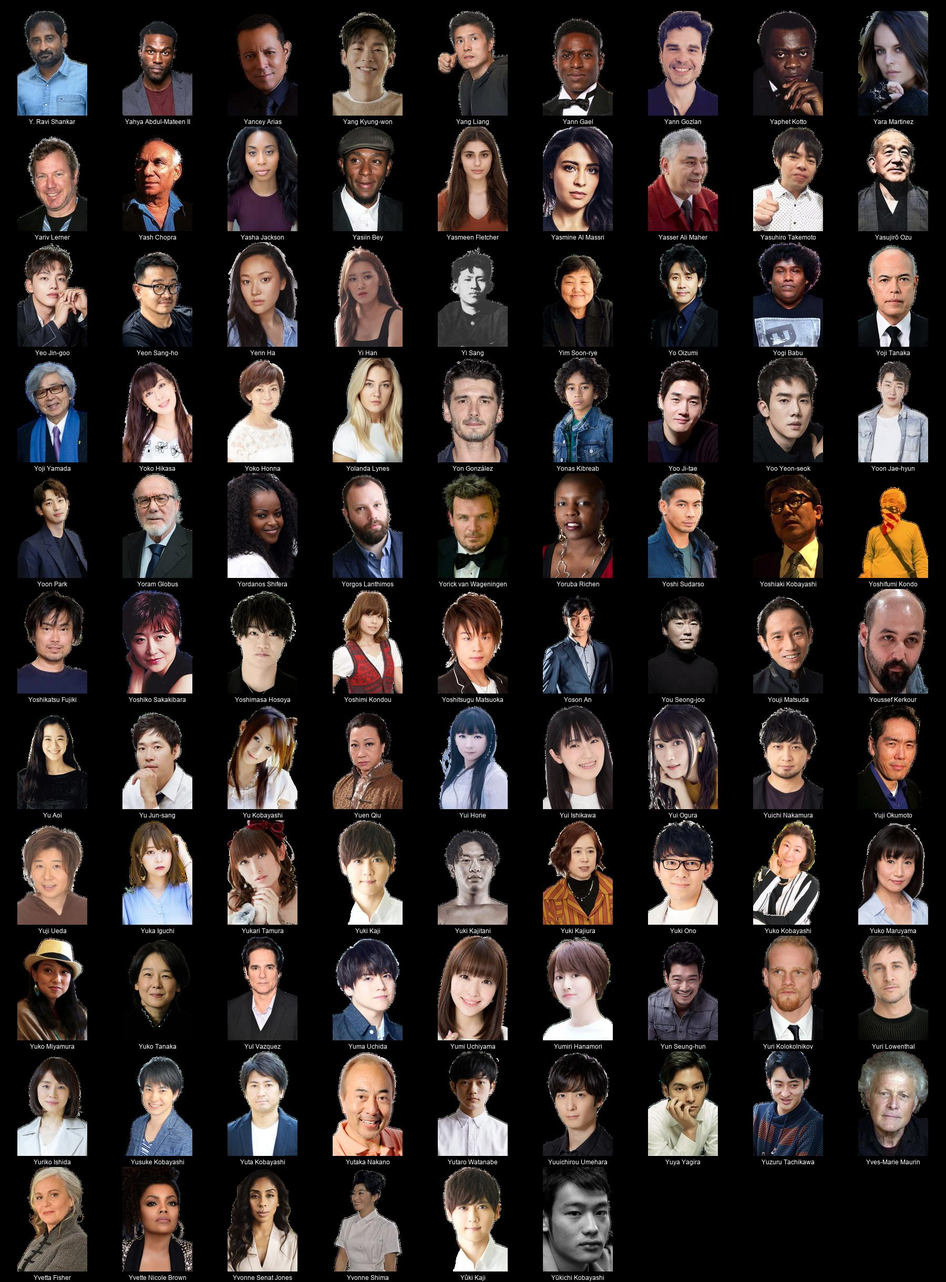
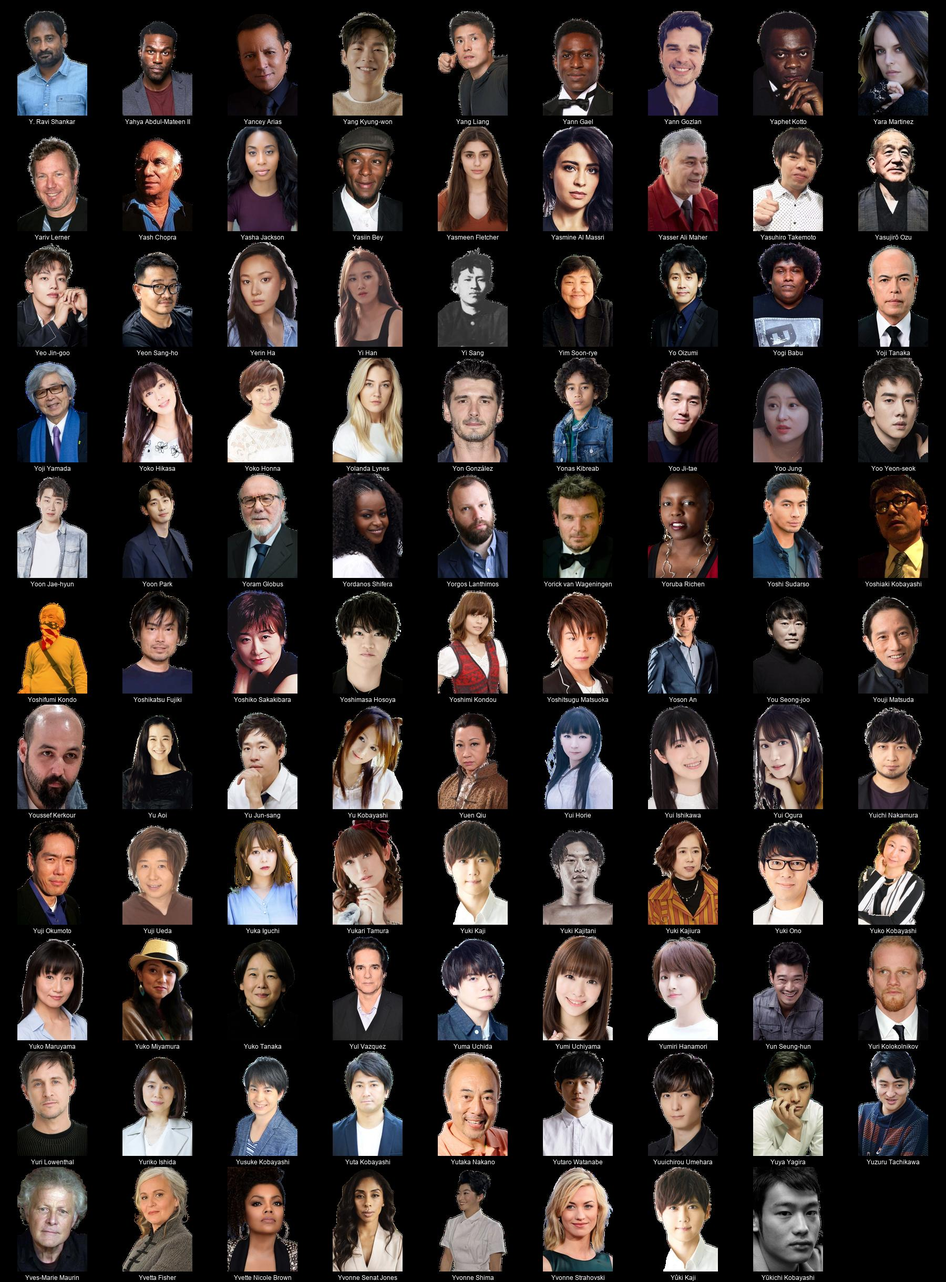
added peeps

diff --git a/README.md b/README.md
@@ -1,4 +1,4 @@
-# Kometa People Images - Transparent (transparent) (11079 Images)
+# Kometa People Images - Transparent (transparent) (11085 Images)
 
 <details><summary><a href="'">' (1 Images)</a></summary>
 
@@ -4307,7 +4307,7 @@
 * [Izaac Wang](https://raw.githubusercontent.com/Kometa-Team/People-Images-transparent/master/I/Images/Izaac%20Wang.png)
 * [Izabella Scorupco](https://raw.githubusercontent.com/Kometa-Team/People-Images-transparent/master/I/Images/Izabella%20Scorupco.png)
 </details>
-<details><summary><a href="J">J (1364 Images)</a></summary>
+<details><summary><a href="J">J (1368 Images)</a></summary>
 
 * [J'Dvonte](https://raw.githubusercontent.com/Kometa-Team/People-Images-transparent/master/J/Images/J%27Dvonte.png)
 * [J. A. Bayona](https://raw.githubusercontent.com/Kometa-Team/People-Images-transparent/master/J/Images/J.%20A.%20Bayona.png)
@@ -4376,6 +4376,7 @@
 * [Jack Palance](https://raw.githubusercontent.com/Kometa-Team/People-Images-transparent/master/J/Images/Jack%20Palance.png)
 * [Jack Purvis](https://raw.githubusercontent.com/Kometa-Team/People-Images-transparent/master/J/Images/Jack%20Purvis.png)
 * [Jack Quaid](https://raw.githubusercontent.com/Kometa-Team/People-Images-transparent/master/J/Images/Jack%20Quaid.png)
+* [Jack Rapke](https://raw.githubusercontent.com/Kometa-Team/People-Images-transparent/master/J/Images/Jack%20Rapke.png)
 * [Jack Schwartzman](https://raw.githubusercontent.com/Kometa-Team/People-Images-transparent/master/J/Images/Jack%20Schwartzman.png)
 * [Jack Thorne](https://raw.githubusercontent.com/Kometa-Team/People-Images-transparent/master/J/Images/Jack%20Thorne.png)
 * [Jack Veal](https://raw.githubusercontent.com/Kometa-Team/People-Images-transparent/master/J/Images/Jack%20Veal.png)
@@ -5629,9 +5630,12 @@
 * [Jung Hae-in](https://raw.githubusercontent.com/Kometa-Team/People-Images-transparent/master/J/Images/Jung%20Hae-in.png)
 * [Jung Hae-kyun](https://raw.githubusercontent.com/Kometa-Team/People-Images-transparent/master/J/Images/Jung%20Hae-kyun.png)
 * [Jung Ho-yeon](https://raw.githubusercontent.com/Kometa-Team/People-Images-transparent/master/J/Images/Jung%20Ho-yeon.png)
+* [Jung Il-woo](https://raw.githubusercontent.com/Kometa-Team/People-Images-transparent/master/J/Images/Jung%20Il-woo.png)
+* [Jung Ji-so](https://raw.githubusercontent.com/Kometa-Team/People-Images-transparent/master/J/Images/Jung%20Ji-so.png)
 * [Jung Ji-young](https://raw.githubusercontent.com/Kometa-Team/People-Images-transparent/master/J/Images/Jung%20Ji-young.png)
 * [Jung Jin-young](https://raw.githubusercontent.com/Kometa-Team/People-Images-transparent/master/J/Images/Jung%20Jin-young.png)
 * [Jung Joon-young](https://raw.githubusercontent.com/Kometa-Team/People-Images-transparent/master/J/Images/Jung%20Joon-young.png)
+* [Jung So-min](https://raw.githubusercontent.com/Kometa-Team/People-Images-transparent/master/J/Images/Jung%20So-min.png)
 * [Jung Woo-young](https://raw.githubusercontent.com/Kometa-Team/People-Images-transparent/master/J/Images/Jung%20Woo-young.png)
 * [Jung Young-ju](https://raw.githubusercontent.com/Kometa-Team/People-Images-transparent/master/J/Images/Jung%20Young-ju.png)
 * [Jung Young-ki](https://raw.githubusercontent.com/Kometa-Team/People-Images-transparent/master/J/Images/Jung%20Young-ki.png)
@@ -10994,7 +10998,7 @@
 * [Xochitl Gomez](https://raw.githubusercontent.com/Kometa-Team/People-Images-transparent/master/X/Images/Xochitl%20Gomez.png)
 * [Xolo Mariduena](https://raw.githubusercontent.com/Kometa-Team/People-Images-transparent/master/X/Images/Xolo%20Mariduena.png)
 </details>
-<details><summary><a href="Y">Y (96 Images)</a></summary>
+<details><summary><a href="Y">Y (98 Images)</a></summary>
 
 * [Y. Ravi Shankar](https://raw.githubusercontent.com/Kometa-Team/People-Images-transparent/master/Y/Images/Y.%20Ravi%20Shankar.png)
 * [Yahya Abdul-Mateen II](https://raw.githubusercontent.com/Kometa-Team/People-Images-transparent/master/Y/Images/Yahya%20Abdul-Mateen%20II.png)
@@ -11030,6 +11034,7 @@
 * [Yon González](https://raw.githubusercontent.com/Kometa-Team/People-Images-transparent/master/Y/Images/Yon%20Gonz%C3%A1lez.png)
 * [Yonas Kibreab](https://raw.githubusercontent.com/Kometa-Team/People-Images-transparent/master/Y/Images/Yonas%20Kibreab.png)
 * [Yoo Ji-tae](https://raw.githubusercontent.com/Kometa-Team/People-Images-transparent/master/Y/Images/Yoo%20Ji-tae.png)
+* [Yoo Jung](https://raw.githubusercontent.com/Kometa-Team/People-Images-transparent/master/Y/Images/Yoo%20Jung.png)
 * [Yoo Yeon-seok](https://raw.githubusercontent.com/Kometa-Team/People-Images-transparent/master/Y/Images/Yoo%20Yeon-seok.png)
 * [Yoon Jae-hyun](https://raw.githubusercontent.com/Kometa-Team/People-Images-transparent/master/Y/Images/Yoon%20Jae-hyun.png)
 * [Yoon Park](https://raw.githubusercontent.com/Kometa-Team/People-Images-transparent/master/Y/Images/Yoon%20Park.png)
@@ -11090,6 +11095,7 @@
 * [Yvette Nicole Brown](https://raw.githubusercontent.com/Kometa-Team/People-Images-transparent/master/Y/Images/Yvette%20Nicole%20Brown.png)
 * [Yvonne Senat Jones](https://raw.githubusercontent.com/Kometa-Team/People-Images-transparent/master/Y/Images/Yvonne%20Senat%20Jones.png)
 * [Yvonne Shima](https://raw.githubusercontent.com/Kometa-Team/People-Images-transparent/master/Y/Images/Yvonne%20Shima.png)
+* [Yvonne Strahovski](https://raw.githubusercontent.com/Kometa-Team/People-Images-transparent/master/Y/Images/Yvonne%20Strahovski.png)
 * [Yûki Kaji](https://raw.githubusercontent.com/Kometa-Team/People-Images-transparent/master/Y/Images/Y%C3%BBki%20Kaji.png)
 * [Yūkichi Kobayashi](https://raw.githubusercontent.com/Kometa-Team/People-Images-transparent/master/Y/Images/Y%C5%ABkichi%20Kobayashi.png)
 </details>

diff --git a/J/README.md b/J/README.md
@@ -1,4 +1,4 @@
-# Kometa People Images - Transparent (transparent) - J (1364 Images)
+# Kometa People Images - Transparent (transparent) - J (1368 Images)
 ![Grid](grid.jpg)
 
 * [J'Dvonte](https://raw.githubusercontent.com/Kometa-Team/People-Images-transparent/master/J/Images/J%27Dvonte.png)
@@ -68,6 +68,7 @@
 * [Jack Palance](https://raw.githubusercontent.com/Kometa-Team/People-Images-transparent/master/J/Images/Jack%20Palance.png)
 * [Jack Purvis](https://raw.githubusercontent.com/Kometa-Team/People-Images-transparent/master/J/Images/Jack%20Purvis.png)
 * [Jack Quaid](https://raw.githubusercontent.com/Kometa-Team/People-Images-transparent/master/J/Images/Jack%20Quaid.png)
+* [Jack Rapke](https://raw.githubusercontent.com/Kometa-Team/People-Images-transparent/master/J/Images/Jack%20Rapke.png)
 * [Jack Schwartzman](https://raw.githubusercontent.com/Kometa-Team/People-Images-transparent/master/J/Images/Jack%20Schwartzman.png)
 * [Jack Thorne](https://raw.githubusercontent.com/Kometa-Team/People-Images-transparent/master/J/Images/Jack%20Thorne.png)
 * [Jack Veal](https://raw.githubusercontent.com/Kometa-Team/People-Images-transparent/master/J/Images/Jack%20Veal.png)
@@ -1321,9 +1322,12 @@
 * [Jung Hae-in](https://raw.githubusercontent.com/Kometa-Team/People-Images-transparent/master/J/Images/Jung%20Hae-in.png)
 * [Jung Hae-kyun](https://raw.githubusercontent.com/Kometa-Team/People-Images-transparent/master/J/Images/Jung%20Hae-kyun.png)
 * [Jung Ho-yeon](https://raw.githubusercontent.com/Kometa-Team/People-Images-transparent/master/J/Images/Jung%20Ho-yeon.png)
+* [Jung Il-woo](https://raw.githubusercontent.com/Kometa-Team/People-Images-transparent/master/J/Images/Jung%20Il-woo.png)
+* [Jung Ji-so](https://raw.githubusercontent.com/Kometa-Team/People-Images-transparent/master/J/Images/Jung%20Ji-so.png)
 * [Jung Ji-young](https://raw.githubusercontent.com/Kometa-Team/People-Images-transparent/master/J/Images/Jung%20Ji-young.png)
 * [Jung Jin-young](https://raw.githubusercontent.com/Kometa-Team/People-Images-transparent/master/J/Images/Jung%20Jin-young.png)
 * [Jung Joon-young](https://raw.githubusercontent.com/Kometa-Team/People-Images-transparent/master/J/Images/Jung%20Joon-young.png)
+* [Jung So-min](https://raw.githubusercontent.com/Kometa-Team/People-Images-transparent/master/J/Images/Jung%20So-min.png)
 * [Jung Woo-young](https://raw.githubusercontent.com/Kometa-Team/People-Images-transparent/master/J/Images/Jung%20Woo-young.png)
 * [Jung Young-ju](https://raw.githubusercontent.com/Kometa-Team/People-Images-transparent/master/J/Images/Jung%20Young-ju.png)
 * [Jung Young-ki](https://raw.githubusercontent.com/Kometa-Team/People-Images-transparent/master/J/Images/Jung%20Young-ki.png)

diff --git a/Y/README.md b/Y/README.md
@@ -1,4 +1,4 @@
-# Kometa People Images - Transparent (transparent) - Y (96 Images)
+# Kometa People Images - Transparent (transparent) - Y (98 Images)
 ![Grid](grid.jpg)
 
 * [Y. Ravi Shankar](https://raw.githubusercontent.com/Kometa-Team/People-Images-transparent/master/Y/Images/Y.%20Ravi%20Shankar.png)
@@ -35,6 +35,7 @@
 * [Yon González](https://raw.githubusercontent.com/Kometa-Team/People-Images-transparent/master/Y/Images/Yon%20Gonz%C3%A1lez.png)
 * [Yonas Kibreab](https://raw.githubusercontent.com/Kometa-Team/People-Images-transparent/master/Y/Images/Yonas%20Kibreab.png)
 * [Yoo Ji-tae](https://raw.githubusercontent.com/Kometa-Team/People-Images-transparent/master/Y/Images/Yoo%20Ji-tae.png)
+* [Yoo Jung](https://raw.githubusercontent.com/Kometa-Team/People-Images-transparent/master/Y/Images/Yoo%20Jung.png)
 * [Yoo Yeon-seok](https://raw.githubusercontent.com/Kometa-Team/People-Images-transparent/master/Y/Images/Yoo%20Yeon-seok.png)
 * [Yoon Jae-hyun](https://raw.githubusercontent.com/Kometa-Team/People-Images-transparent/master/Y/Images/Yoon%20Jae-hyun.png)
 * [Yoon Park](https://raw.githubusercontent.com/Kometa-Team/People-Images-transparent/master/Y/Images/Yoon%20Park.png)
@@ -95,5 +96,6 @@
 * [Yvette Nicole Brown](https://raw.githubusercontent.com/Kometa-Team/People-Images-transparent/master/Y/Images/Yvette%20Nicole%20Brown.png)
 * [Yvonne Senat Jones](https://raw.githubusercontent.com/Kometa-Team/People-Images-transparent/master/Y/Images/Yvonne%20Senat%20Jones.png)
 * [Yvonne Shima](https://raw.githubusercontent.com/Kometa-Team/People-Images-transparent/master/Y/Images/Yvonne%20Shima.png)
+* [Yvonne Strahovski](https://raw.githubusercontent.com/Kometa-Team/People-Images-transparent/master/Y/Images/Yvonne%20Strahovski.png)
 * [Yûki Kaji](https://raw.githubusercontent.com/Kometa-Team/People-Images-transparent/master/Y/Images/Y%C3%BBki%20Kaji.png)
 * [Yūkichi Kobayashi](https://raw.githubusercontent.com/Kometa-Team/People-Images-transparent/master/Y/Images/Y%C5%ABkichi%20Kobayashi.png)
